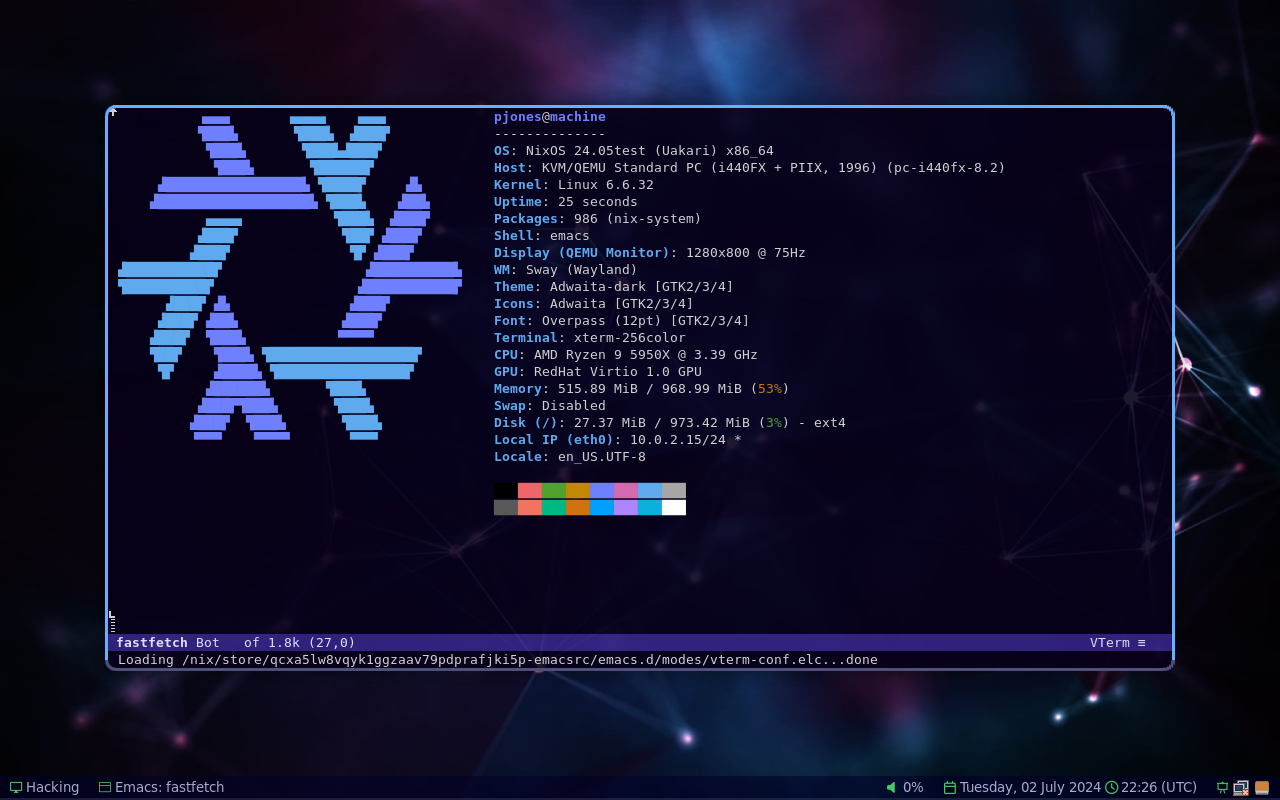
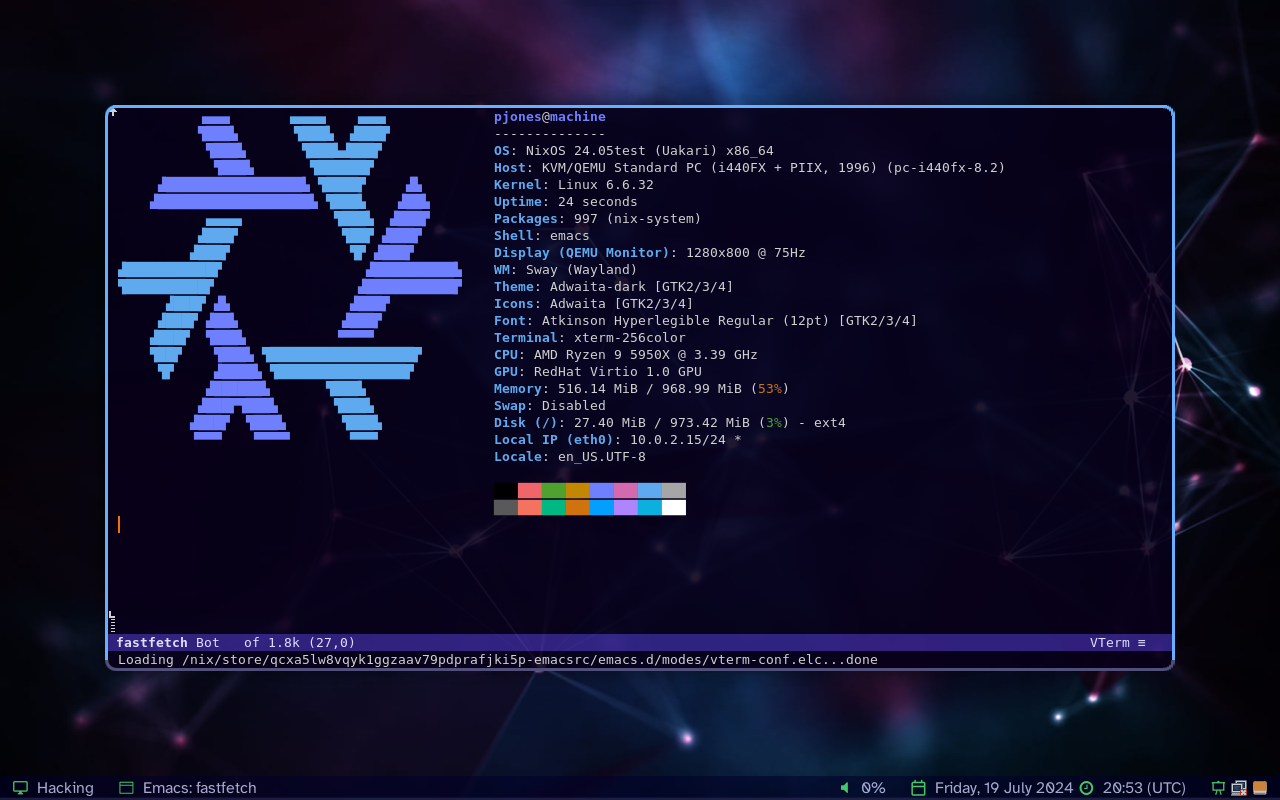
font: Switch the default font to Atkinson Hyperlegible

diff --git a/pkgs/theme/waybar.css b/pkgs/theme/waybar.css
@@ -5,18 +5,18 @@
   border-radius: 0;
   min-height: 0;
   color: @base05;
-  font-family: "Overpass Nerd Font SemiBold", sans-serif;
+  font-family: "AtkinsonHyperlegible Nerd Font", sans-serif;
 }
 
 window#waybar {
   opacity: 0.8;
-  font-size: 10pt;
+  font-size: 12pt;
   border-bottom: 0.15em solid @base01;
   background-color: alpha(@base00, 0.7);
 }
 
 window#waybar.hidpi {
-  font-size: 6pt;
+  font-size: 8pt;
 }
 
 #wireplumber,

diff --git a/README.md b/README.md
@@ -26,6 +26,10 @@ running in an ephemeral virtual machine (`nix flake check`).
 
   * Wallpaper Daemon: [wpaperd][]
 
+  * Monospace Font: [Hermit](https://pcaro.es/p/hermit/)
+
+  * Variable-spaced Font: [Atkinson Hyperlegible][hyperlegible]
+
 ## Try It Out
 
 If you have [Nix][] installed and configured with flake support you
@@ -52,3 +56,4 @@ configuration then take a look at my [tilde][] project.
 [swaylock]: https://github.com/swaywm/swaylock
 [wpaperd]: https://github.com/danyspin97/wpaperd
 [tilde]: https://github.com/pjones/tilde
+[hyperlegible]: https://brailleinstitute.org/freefont
